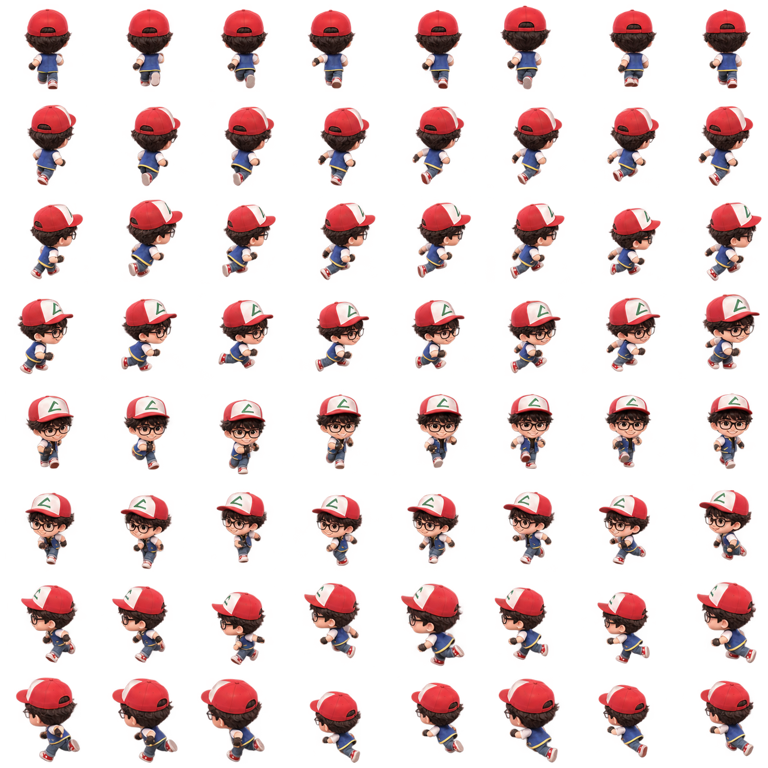
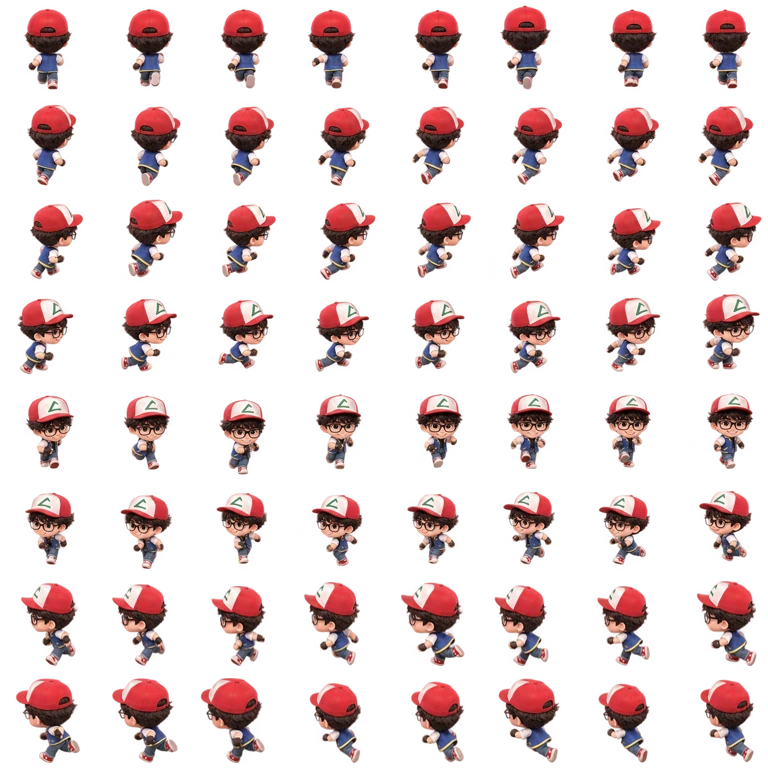
그래픽 수정 패치: 현곤 W/NW 보정 시트(발 높이 맞춤), 정용·상훈 얼굴·전신 교체
Claude-Session: https://claude.ai/code/session_01RNFJUrew5q1sX3kwPwRrNZ

diff --git a/tools/fit_sheet_baseline.py b/tools/fit_sheet_baseline.py
@@ -1,0 +1,30 @@
+"""ChatGPT 보정 시트의 발 높이를 기존 시트에 맞춤.
+방향(행)마다 기존 시트와 가장 낮은 발 위치를 비교해 차이만큼 세로로 이동한다 (그림 자체는 그대로).
+사용: python3 -I tools/fit_sheet_baseline.py <새 시트.png> <기존 시트> <출력.webp>"""
+import sys
+import numpy as np
+from PIL import Image
+
+CELL = 96
+
+def foot(arr, d):
+    m = 0
+    for f in range(8):
+        ys = np.nonzero((arr[d * CELL:(d + 1) * CELL, f * CELL:(f + 1) * CELL, 3] > 40).any(1))[0]
+        if len(ys):
+            m = max(m, int(ys.max()))
+    return m
+
+new = np.array(Image.open(sys.argv[1]).convert('RGBA'))
+old = np.array(Image.open(sys.argv[2]).convert('RGBA'))
+out = np.zeros((8 * CELL, 8 * CELL, 4), np.uint8)
+for d in range(8):
+    dy = foot(old, d) - foot(new, d)
+    row = new[d * CELL:(d + 1) * CELL, :8 * CELL]
+    out[d * CELL:(d + 1) * CELL] = np.roll(row, dy, axis=0)
+    if dy > 0:
+        out[d * CELL:d * CELL + dy] = 0
+    elif dy < 0:
+        out[(d + 1) * CELL + dy:(d + 1) * CELL] = 0
+    print('dir', d, 'shift', dy)
+Image.fromarray(out).save(sys.argv[3], quality=92, method=6)

diff --git a/tools/clean_full_halo.py b/tools/clean_full_halo.py
@@ -1,0 +1,17 @@
+"""전신 이미지(배경 투명)의 실루엣 바깥에 남은 반투명 그림자 지우기.
+반투명(알파<235)이면서 어두운 회색이거나 보라빛 회색인 픽셀만 투명 처리. 불투명한 그림 안쪽은 건드리지 않음.
+사용: python3 -I tools/clean_full_halo.py <입력.png> <출력.webp>"""
+import sys
+import numpy as np
+from PIL import Image
+
+a = np.array(Image.open(sys.argv[1]).convert('RGBA')).astype(int)
+r, g, b, al = a[..., 0], a[..., 1], a[..., 2], a[..., 3]
+mx, mn = a[..., :3].max(2), a[..., :3].min(2)
+semi = (al > 0) & (al < 235)
+grey = (mx < 120) & (mx - mn < 60)
+purple = (b > g + 25) & (b >= r - 15)
+halo = semi & (grey | purple)
+a[halo, 3] = 0
+Image.fromarray(a.astype(np.uint8)).save(sys.argv[2], quality=92, method=6)
+print(sys.argv[1], 'halo', int(halo.sum()))

diff --git a/docs/TECH_REVIEW.md b/docs/TECH_REVIEW.md
@@ -552,3 +552,9 @@ export default {
 - 탭: 선택된(준비 안 됐으면 준비된 다음) 포켓몬을 자동 위치로 투척. 아이콘으로 밀고 떼기: 그 포켓몬 자동 투척(펫이 있으면 교체).
 - 아이콘 위 0.35초 멈춤 → 조준 고정, 계속 끌면 조준점 이동(사거리 원·조준점 표시), 떼면 투척, 처음 자리로 되돌려 떼면 취소.
 - 자동 위치(`autoSummonSpot`): 사거리+60 안 가장 가까운 적 쪽(적 40px 앞) → 없으면 이동 방향 110px. 막힌 자리면 각도·거리를 바꿔 가장 가까운 빈자리.
+
+## 그래픽 수정 패치(Battle_Lab_Graphics_Fix) 적용
+- 현곤 시트 `summoner-aligned.png`(원본 보관) → W/NW 머리 높이 편차 10~14px → 5px. 단 시트 전체가 2px 위로 올라가 있어 다른 캐릭터와 발 높이가 어긋남 → `tools/fit_sheet_baseline.py`로 방향별로 기존 발 위치에 맞춰 `summoner-sheet.webp` 생성(N~SW 2px, NW 1px 아래로, W 그대로). 그림은 그대로.
+- 정용·상훈 얼굴: 256×256 전체 카드라 다른 6장(256×225)과 크기를 맞추려고 y 8~233 영역으로 자르고 모서리 둥글게.
+- 정용·상훈 전신(640×768): 배경 제거 때 남은 반투명 회색·보라 그림자를 `tools/clean_full_halo.py`로 제거 후 `assets/lobby/{bear,octo}-full.webp`.
+- 게임 속 검수: 정용(흰 곰 + 빨간 목도리)·상훈(빨간 문어 옷) 외형이 새 얼굴·전신과 일치. 전투 시트는 기존 유지.
